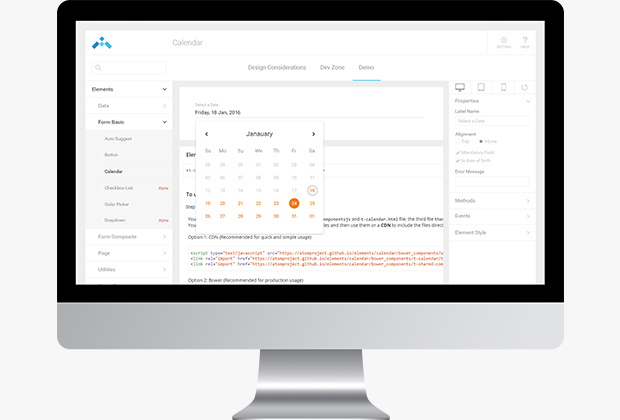
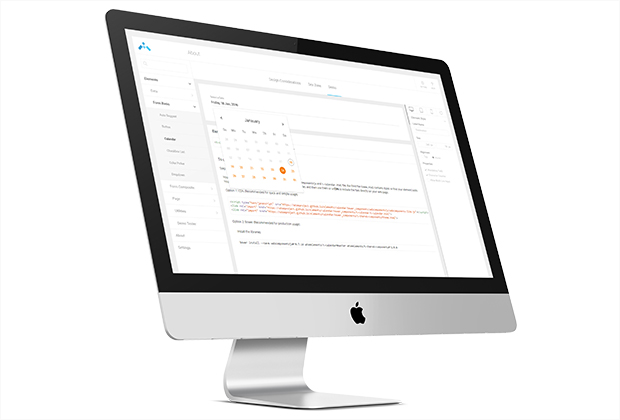
Details page update

diff --git a/work-details-1.html b/work-details-1.html
@@ -106,47 +106,16 @@
         <div class="container">
 			<div class="row">
 				<div class="col-md-12">
-					<img class="single-potfolio-image img-responsive mb-50" src="images/cta1.jpg"></img>
+					<img class="single-potfolio-image img-responsive mb-50" src="images/atom.jpg"></img>
+				</div>
+			</div>
+			<div class="row">
+				<div class="col-md-12">
+					<iframe src="http://www.pchhibber.com/theBeats-user-goals/" width="1140" height="640" scrolling="no" frameborder="0"></iframe>
 				</div>
 			</div>
 		</div>
         <!--/ END CTA section -->
-        <!-- START section -->
-        <div>
-            <div class="container">
-                <div class="row">
-                    <div class="col-md-6">
-                        <img class="single-potfolio-image img-responsive mb-50" src="images/1.png"></img>
-                    </div>
-				    <div class="col-md-6">
-                        <p>For any web component, the atom element wielder automatically generates a form using which the user can interact with the public API of the component - properties, methods and events.</p>
-						<p>Web components can be with or without a UI. The element wielder supports both cases. An interactive demo is generated for any given web component. In case of elements having a UI, that UI is shown in the demo. For data only components a demo is generated by the system.</p>
-                    </div>
-                </div>
-                <div class="row">
-				    <div class="col-md-6">
-						<p>For theming, users can modify the variables exposed by individual components, similar to how they modify properties - via a form that resembles most modern design tools. Additionally a set of theme variables can be defined at component set level, so that entire libraries of components can be themed in one go.
-						</p>
-                    </div>
-                    <div class="col-md-6">
-                        <img class="single-potfolio-image img-responsive mb-50" src="images/2.jpg"></img>
-                    </div>
-                </div>
-                <div class="row">
-                    <div class="col-md-6">
-                        <img class="single-potfolio-image img-responsive mb-50" src="images/3.png"></img>
-                    </div>
-				    <div class="col-md-6">
-						<p><strong>Primary Users:</strong> Designers, Business Analysts</p>
-						<p><strong>Key Goals Addressed:</strong> Interact with freely available building blocks or those being prepared by their dev teams, to know what can do and combinations in which they can be used - without coding.</p>
-                    </div>
-                </div>
-				<div class="row">
-					<iframe src="http://www.pchhibber.com/theBeats-user-goals/" width="1170" height="640" scrolling="no" frameborder="0"></iframe>
-				</div>
-            </div>
-        </div>
-        <!--/ END section -->
         <!-- START footer section -->
         <footer class="atom-footer-area small-section">
             <div class="container">

diff --git a/css/theme.css b/css/theme.css
@@ -400,7 +400,7 @@ hr {
    04. PAGE TITLE
 ============================================================ */
 .page-title {
-  padding: 50px 0;
+  padding: 30px 0;
 }
 .page-title h1 {
   font-size: 74px;
